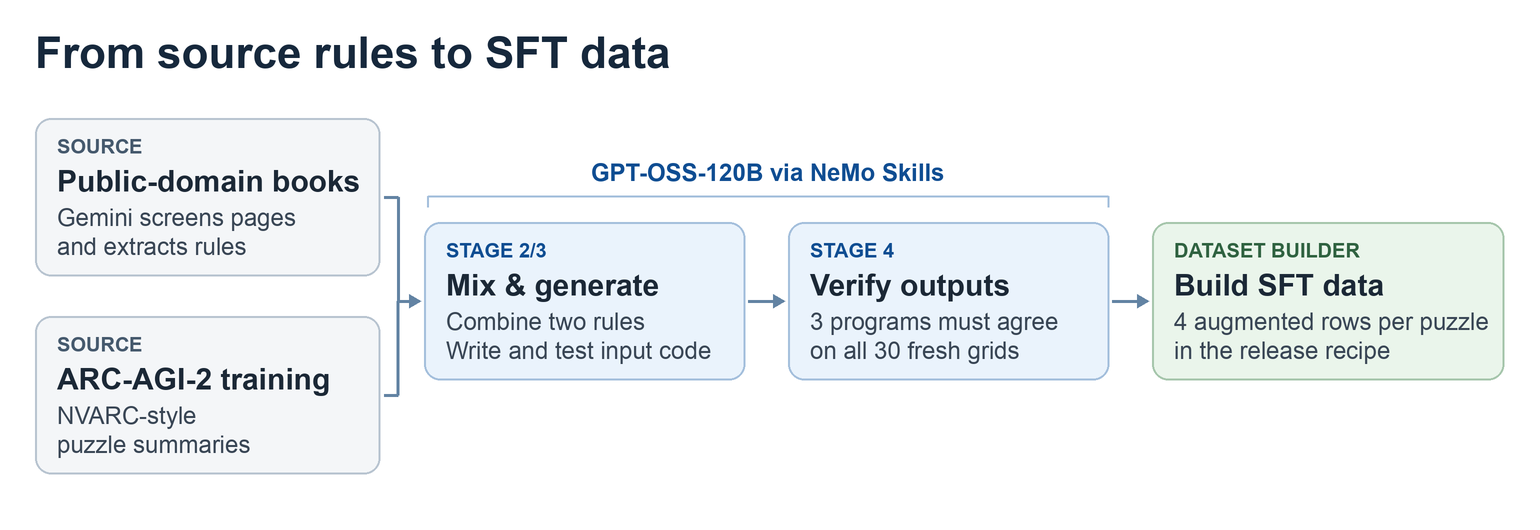
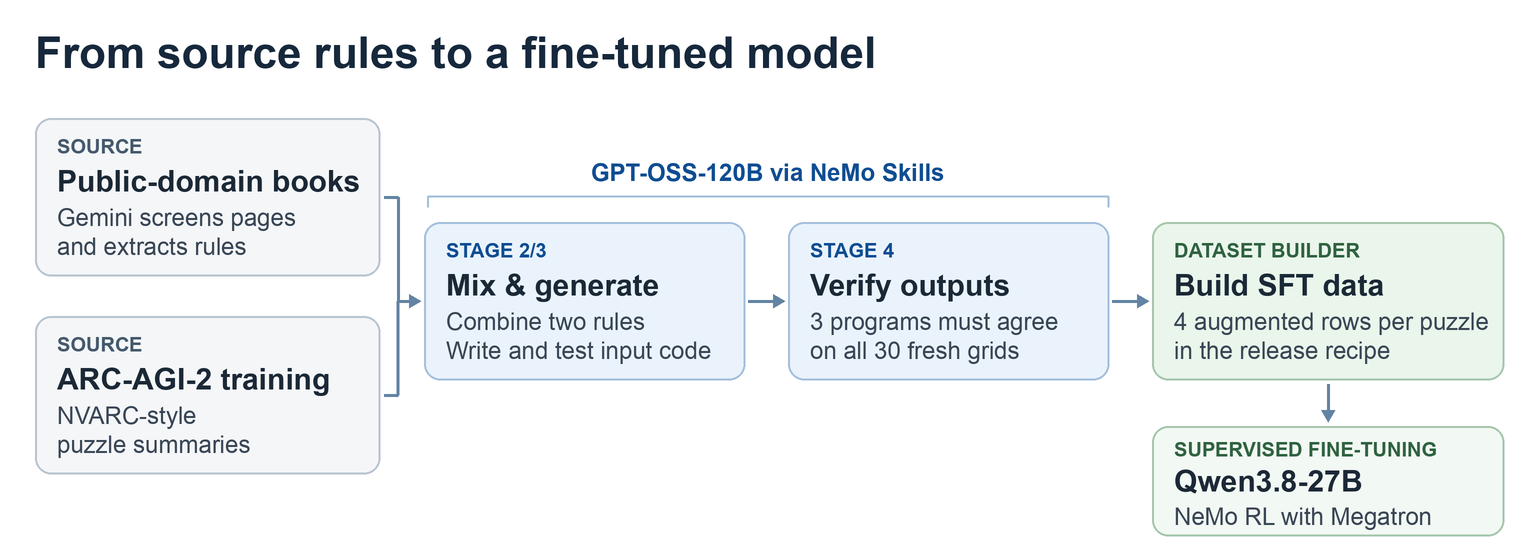
Show Qwen3.8-27B fine-tuning in the pipeline diagram

diff --git a/README.md b/README.md
@@ -9,7 +9,7 @@ The [solution writeup](https://www.kaggle.com/competitions/arc-prize-2026-arc-ag
 - Checkpoint conversion for inference on four L4 GPUs
 - Per-puzzle test-time fine-tuning and a Flash-Next blend
 
-![Book rules and ARC training summaries feed Stage 2/3 input generation, Stage 4 output verification, and the SFT dataset builder.](sdg/assets/sdg-stage-flow.png)
+![Book rules and ARC training summaries feed Stage 2/3 input generation, Stage 4 output verification, and dataset assembly for Qwen3.8-27B supervised fine-tuning with NeMo RL and Megatron.](sdg/assets/sdg-stage-flow.png)
 
 ## Synthetic Data Generation
 
